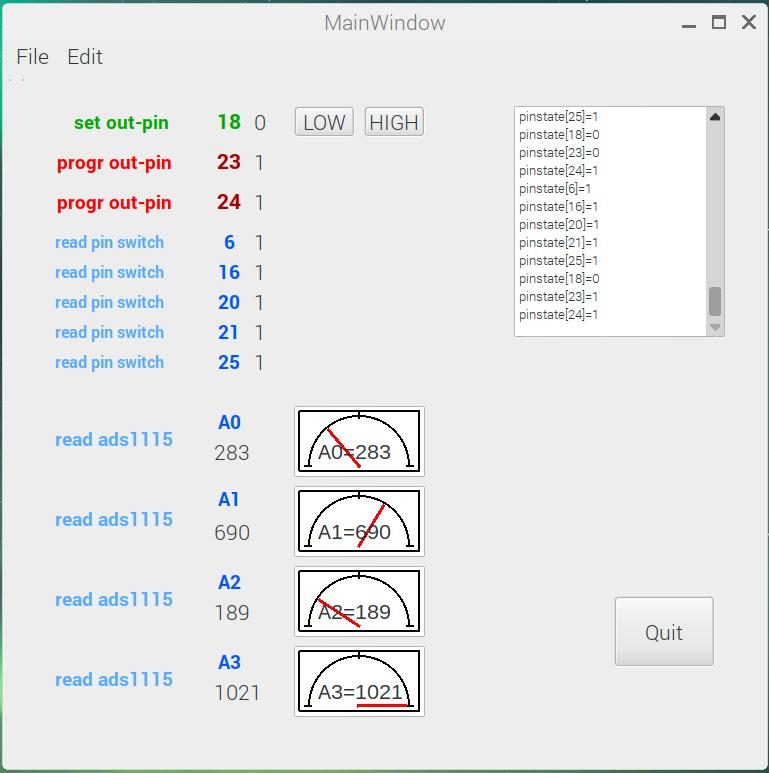
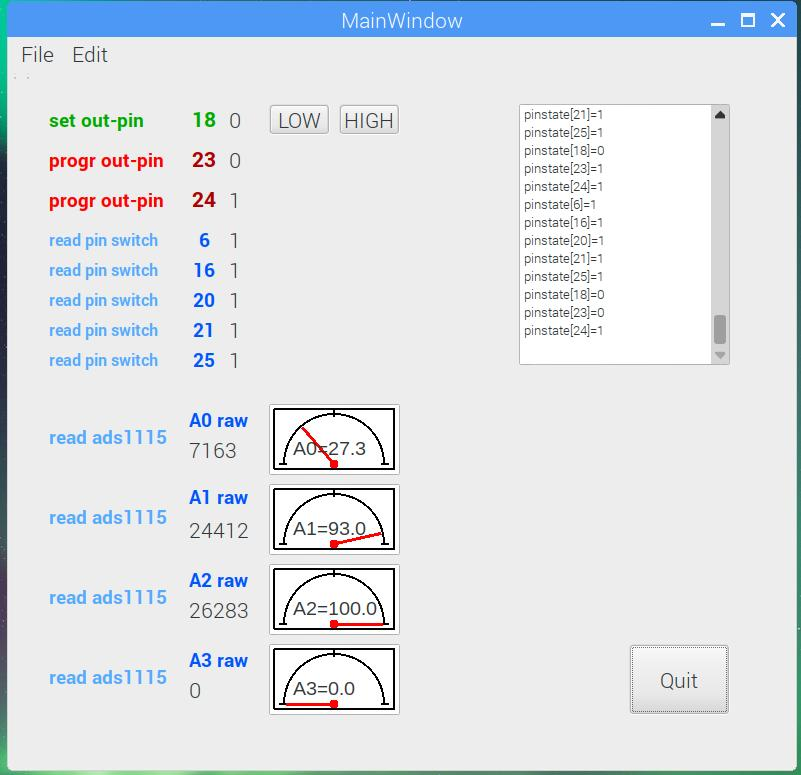
Add files via upload

diff --git a/qt/btns_wiringPi_toolbar_pthread_textedit_ads1115_gauge/mainwindow.cpp b/qt/btns_wiringPi_toolbar_pthread_textedit_ads1115_gauge/mainwindow.cpp
@@ -8,9 +8,8 @@
 
 
 
-
 /*
-* ver 0.7
+* ver 0.7a
 *
 * GPIO setup (BCM numbering):
 * 23: Output (green LED + resistor) // switchable by widget buttons)
@@ -29,11 +28,11 @@
 
 #define  PINBASE  120
 #define  ADS_ADDR 0x48
-int maxADC = 1023;
 
 
-int adcraw0=0, adcraw1=0, adcraw2=0, adcraw3=0,
-    analog0=0, analog1=0, analog2=0, analog3=0;
+int adcraw[8],
+    analog[8];
+float anaf[8];
 int pinstate[40];
 
 //-------------------------------------------------------------------------------
@@ -127,13 +126,26 @@ long  map(long x, long in_min, long in_max, long out_min, long out_max) {
     return (x-in_min) * (out_max-out_min) / (in_max-in_min) + out_min;
 }
 
+float mapf(float x, float in_min, float in_max, float out_min, float out_max) {
+    return (x-in_min) * (out_max-out_min) / (in_max-in_min) + out_min;
+}
+
 
 //-------------------------------------------------------------------------------
 // ADC map
-int32_t adc16To10bit(int32_t adc, int32_t actmax16) {
-    adc = map(adc, 0, actmax16, 0, maxADC);
-    if(adc > maxADC) adc=maxADC;
+int32_t adc16To10bit(int32_t adc) {
+    int32_t ADSMAX16 = 26260;
+    adc = map(adc, 0, ADSMAX16, 0, 1023);
+    if(adc > 1023) adc=1023;
     if(adc < 0)      adc=0;
+    return adc;
+}
+
+float adcToPerc(float adc) {
+    float ADSMAX16 = 26260.0;
+    adc = adc*100.0/ADSMAX16;
+    if(adc > 100.0)  adc=100.0;
+    if(adc < 0)      adc=0.0;
     return adc;
 }
 
@@ -175,8 +187,6 @@ void* loop(void*)
         msleep(500);
         pinstate[23]=HIGH;
         digitalWrite(23, pinstate[23]);
-        //delay(500);
-        //std::this_thread::sleep_for(std::chrono::milliseconds(500));
         msleep(500);
     }
     return NULL;  //
@@ -201,7 +211,7 @@ MainWindow::MainWindow(QWidget *parent)
 
     GPIOsetup();
     GPIOreset();
-    ads1115Setup ( PINBASE, ADS_ADDR );
+    ads1115Setup(PINBASE, ADS_ADDR);
 
     
 
@@ -277,7 +287,7 @@ void MainWindow::drawGauge(QGraphicsScene *scene, QGraphicsLineItem **pline, QGr
     plinetemp->setTransformOriginPoint(offsX+radius, offsY);
     *pline = plinetemp;
 
-    QGraphicsTextItem* texttemp = scene->addText("", QFont("Arial", 16) );
+    QGraphicsTextItem* texttemp = scene->addText("", QFont("Arial", 14) );
     texttemp->setPos(offsX+5, offsY-30);
     *text = texttemp;
 }
@@ -338,20 +348,19 @@ void MainWindow::onUpdateTime1() {  // quick
     if(pinstate[24]) digitalWrite(24, HIGH); else digitalWrite(24, LOW);
 
     // read i2c device(s) (ADC)
-    adcraw0 = analogRead(PINBASE + 0);             // raw
-    adcraw1 = analogRead(PINBASE + 1);             // raw
-    adcraw2 = analogRead(PINBASE + 2);             // raw
-    adcraw3 = analogRead(PINBASE + 3);             // raw
-    analog0 = adc16To10bit(adcraw0, 26243);  // adjust to actual poti max
-    analog1 = adc16To10bit(adcraw1, 26243);
-    analog2 = adc16To10bit(adcraw2, 26243);
-    analog3 = adc16To10bit(adcraw3, 26243);
+    for (int i=0; i<4; i++) {
+       adcraw[i] = analogRead(PINBASE + i);
+       analog[i] = adc16To10bit(adcraw[i]);  // adjust to 10 bit
+       anaf[i]   = adcToPerc(adcraw[i]);     // adjust to Percent
+    }
+
 }
 
 
 //-------------------------------------------------------------------------------
 void MainWindow::onUpdateTime2() {  // slow
     double val;
+    char buf[10];
 
     // show up values on dashboard
     // inputs
@@ -380,31 +389,31 @@ void MainWindow::onUpdateTime2() {  // slow
     Qwriteln1("pinstate[24]="+QString::number(pinstate[24]));
 
     // debug, test
-    ui->label_ads1115A0->setText(QString::number(adcraw0));
-    ui->label_ads1115A1->setText(QString::number(adcraw1));
-    ui->label_ads1115A2->setText(QString::number(adcraw2));
-    ui->label_ads1115A3->setText(QString::number(adcraw3));
+    ui->label_ads1115A0->setText( QString::number(adcraw[0]) );
+    ui->label_ads1115A1->setText( QString::number(adcraw[1]) );
+    ui->label_ads1115A2->setText( QString::number(adcraw[2]) );
+    ui->label_ads1115A3->setText( QString::number(adcraw[3]) );
 
     // Gauge pointer needles updates
     //Gauge 0
-    val=(analog0)*180.0/maxADC;    
+    val=(anaf[0])*180.0/100;
     pline0->setRotation(val);
-    text0->setPlainText("A0="+QString::number(analog0));
+    text0->setPlainText( "A0="+QString::number(anaf[0], 'f', 1) );
 
     //Gauge 1
-    val=(analog1)*180.0/maxADC;
+    val=(anaf[1])*180.0/100;
     pline1->setRotation(val);
-    text1->setPlainText("A1="+QString::number(analog1));
+    text1->setPlainText( "A1="+QString::number(anaf[1], 'f', 1) );
 
     //Gauge 2
-    val=(analog2)*180.0/maxADC;
+    val=(anaf[2])*180.0/100;
     pline2->setRotation(val);
-    text2->setPlainText("A2="+QString::number(analog2));
+    text2->setPlainText( "A2="+QString::number(anaf[2], 'f', 1) );
 
     //Gauge 3
-    val=(analog3)*180.0/maxADC;
+    val=(anaf[3])*180.0/100;
     pline3->setRotation(val);
-    text3->setPlainText("A3="+QString::number(analog3));
+    text3->setPlainText( "A3="+QString::number(anaf[3], 'f', 1) );
 }
 
 
